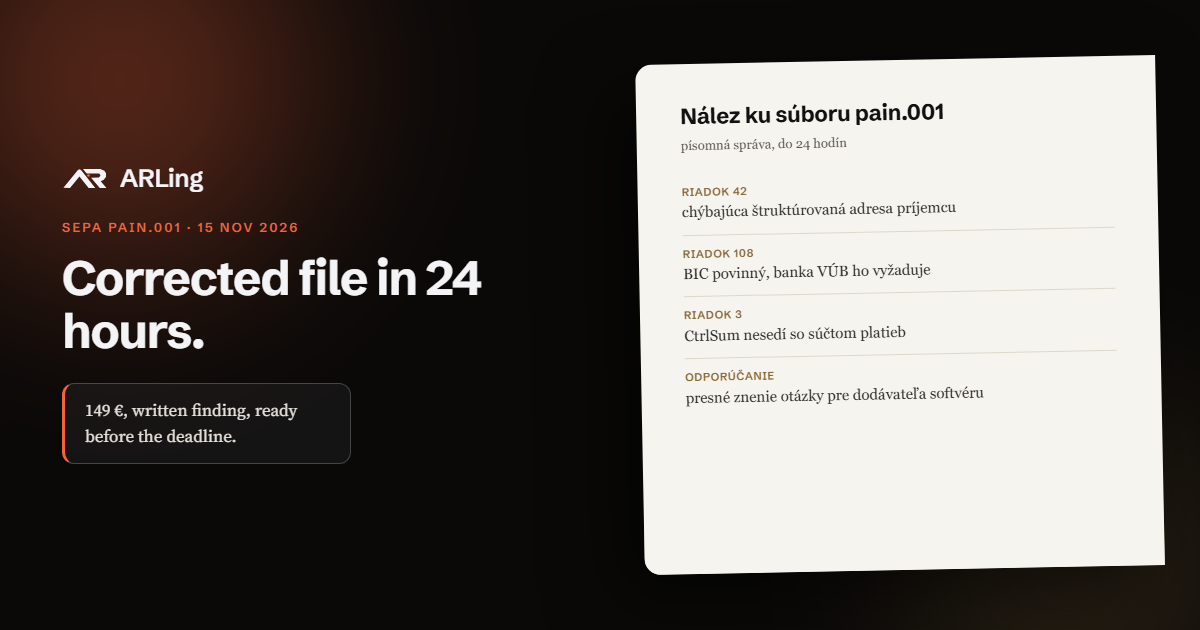
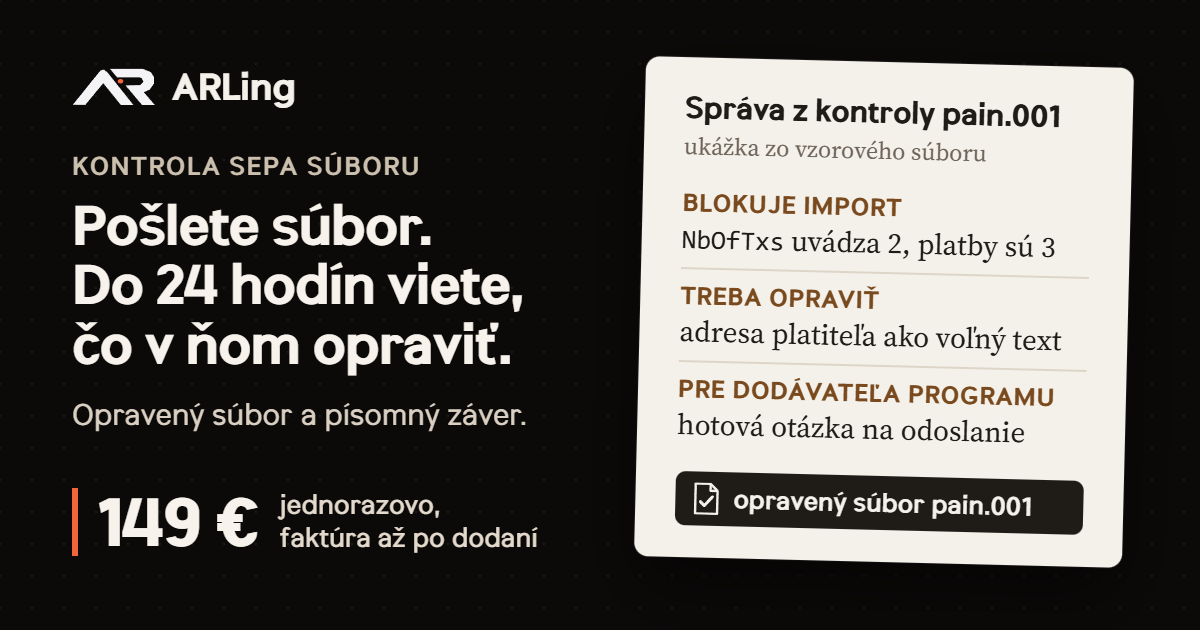
fable: kontrola-suboru nové obrázky náhľadu (sk, en, de, bez dátumov, len sľuby stránky), og:image a twitter:image s rozmermi a alt; nemecký článok o štruktúrovanej adrese: dátum 28. 8. 2026 so zdrojom a vrátený zdroj slovenských bánk (stratený pri zlúčení 6aa970c22f); brána sepa-dokoncenie pokus 2 

diff --git a/notes/strukturierte-adresse-pain-001-ab-15-november-2026/index.html b/notes/strukturierte-adresse-pain-001-ab-15-november-2026/index.html
@@ -5,7 +5,7 @@
 <script type="text/plain" data-odlozene src="/style/vzhlad.js?v=da076a5a"></script>
 <meta charset="utf-8">
 <meta name="viewport" content="width=device-width, initial-scale=1">
-<meta http-equiv="Content-Security-Policy" content="default-src 'self'; script-src 'self' https://api.arling.workers.dev 'sha256-7FSdfmrl+5QSgl6IKPQIurtZ+JQz6W0uhhvFm3YWalc=' 'sha256-liUxZVd/0HzKIV+4ILMUuUkITPMRiD4TOmylT47G87w=' 'sha256-8nkrIGeL8XwfJ5L6vJFUS28Ub2ZEuiLpzhvdEgaQnoU=' 'sha256-sFdSmUpH9lun335FcoxUD7lvRTsqrIbRkGseNtDbv0s='; connect-src 'self' https://api.arling.workers.dev; img-src 'self' data:; style-src 'self' 'unsafe-inline'; base-uri 'self'; form-action 'none'; object-src 'none'">
+<meta http-equiv="Content-Security-Policy" content="default-src 'self'; script-src 'self' https://api.arling.workers.dev 'sha256-7FSdfmrl+5QSgl6IKPQIurtZ+JQz6W0uhhvFm3YWalc=' 'sha256-OMBeKtKGPFM2mud7XkKbIFhkx83SoK6WnRF8BfzX8Q4=' 'sha256-8nkrIGeL8XwfJ5L6vJFUS28Ub2ZEuiLpzhvdEgaQnoU=' 'sha256-sFdSmUpH9lun335FcoxUD7lvRTsqrIbRkGseNtDbv0s='; connect-src 'self' https://api.arling.workers.dev; img-src 'self' data:; style-src 'self' 'unsafe-inline'; base-uri 'self'; form-action 'none'; object-src 'none'">
 <meta name="color-scheme" content="dark">
 <meta name="theme-color" content="#0a0908">
 <link rel="preconnect" href="https://api.arling.workers.dev" crossorigin>
@@ -183,7 +183,7 @@ html:not(.css) main>:nth-child(n+2),html:not(.css) body>footer{visibility:hidden
   "headline": "Strukturierte Adresse in pain.001: EPC hat den 15. November 2026 verschoben",
   "description": "Der EPC hat das Ende der unstrukturierten pain.001-Adresse vom 15. November 2026 verschoben und will bis Februar 2027 erneut darüber entscheiden. Minimum bleiben TwnNm und Ctry.",
   "datePublished": "2026-09-17",
-  "dateModified": "2026-11-19",
+  "dateModified": "2026-11-20",
   "inLanguage": "de",
   "author": {
     "@type": "Organization",
@@ -320,7 +320,7 @@ html:not(.css) main>:nth-child(n+2),html:not(.css) body>footer{visibility:hidden
 
       <h2>Was der EPC verschoben hat</h2>
       <p>Das SEPA-Regelwerk betrifft ein einzelnes Element im Zahlungssatz, nämlich PstlAdr: Sobald eine Zahlung eine Adresse enthält, soll diese künftig entweder vollständig strukturiert oder hybrid sein, denn eine Adresse, die nur als Fließtext in AdrLine geschrieben ist, soll dann nicht mehr akzeptiert werden. Ursprünglich sollte das ab dem 15. November 2026 gelten; der EPC hat diesen Termin am 9. September 2026 verschoben und am 29. Oktober 2026 entschieden, noch keinen neuen Termin festzulegen; bis Februar 2027 will er erneut darüber entscheiden. Die Regel soll für alle SEPA-Verfahren gelten, nicht nur für die gewöhnliche Überweisung: Sie betrifft die SEPA-Überweisung (SCT), die SEPA-Echtzeitüberweisung (SCT Inst) und das SEPA-Lastschriftverfahren (SDD Core und SDD B2B) gleichermaßen.</p>
-      <p>Im Spätsommer 2026 kam zusätzliche Verwirrung dazu, weil SWIFT Ende August eine Verschiebung seines eigenen Termins für weltweite grenzüberschreitende Zahlungen außerhalb von SEPA ankündigte. Anfang September 2026 bestätigte der European Payments Council zunächst noch, dass für die SEPA-Verfahren der 15. November 2026 unverändert gilt; am 9. September 2026 verschob der EPC diesen Termin dann aber ebenfalls, mit einer eigenen Entscheidung unabhängig von SWIFT. SWIFT und SEPA bleiben zwei getrennte Welten mit eigenen Terminen.</p>
+      <p>Im Spätsommer 2026 kam zusätzliche Verwirrung dazu, weil SWIFT Ende August eine Verschiebung seines eigenen Termins für weltweite grenzüberschreitende Zahlungen außerhalb von SEPA ankündigte. Am 28. August 2026 bestätigte der European Payments Council zunächst noch, dass für die SEPA-Verfahren der 15. November 2026 unverändert gilt; am 9. September 2026 verschob der EPC diesen Termin dann aber ebenfalls, mit einer eigenen Entscheidung unabhängig von SWIFT. SWIFT und SEPA bleiben zwei getrennte Welten mit eigenen Terminen.</p>
 
       <h2>Die zwei Mindestfelder einer strukturierten Adresse</h2>
       <p>Bei einer strukturierten oder hybriden Adresse verlangt das Regelwerk als Minimum zwei Angaben: den Ort im Feld TwnNm und den zweistelligen Ländercode nach ISO 3166-1 im Feld Ctry. Der Ländercode muss ein echter zweistelliger Code sein, zum Beispiel SK, CZ, DE oder AT; ein Wort wie Deutschland oder Österreich ist kein Ländercode, und die Bank lehnt einen solchen Eintrag ab.</p>
@@ -377,7 +377,9 @@ html:not(.css) main>:nth-child(n+2),html:not(.css) body>footer{visibility:hidden
           <li>F32: <a href="https://arling.sk/sepa-pain001-doctor/" rel="noopener" target="_blank" style="overflow-wrap:anywhere">https://arling.sk/sepa-pain001-doctor/</a></li>
           <li>F34: <a href="https://arling.sk/kontrola-suboru/" rel="noopener" target="_blank" style="overflow-wrap:anywhere">https://arling.sk/kontrola-suboru/</a> (geprüft am 26. September 2026)</li>
           <li>F198: European Payments Council, „EPC delays address format migration timeline“, 10. September 2026, <a href="https://www.europeanpaymentscouncil.eu/news-insights/news/epc-delays-address-format-migration-timeline" rel="noopener" target="_blank" style="overflow-wrap:anywhere">https://www.europeanpaymentscouncil.eu/news-insights/news/epc-delays-address-format-migration-timeline</a> (geprüft am 24. September 2026)</li>
-          <li>F494: <a href="https://www.europeanpaymentscouncil.eu/news-insights/news/epc-defers-setting-new-end-date-unstructured-address-format-until-february-2027" rel="noopener" target="_blank" style="overflow-wrap:anywhere">https://www.europeanpaymentscouncil.eu/news-insights/news/epc-defers-setting-new-end-date-unstructured-address-format-until-february-2027</a> (geprüft am 1. November 2026)</li>
+          <li>F494: European Payments Council, „EPC defers setting new end date for unstructured address format until February 2027“, 30. Oktober 2026, <a href="https://www.europeanpaymentscouncil.eu/news-insights/news/epc-defers-setting-new-end-date-unstructured-address-format-until-february-2027" rel="noopener" target="_blank" style="overflow-wrap:anywhere">https://www.europeanpaymentscouncil.eu/news-insights/news/epc-defers-setting-new-end-date-unstructured-address-format-until-february-2027</a> (geprüft am 1. November 2026)</li>
+          <li>European Payments Council, „November 2026 end-date of the unstructured address format for EPC payment scheme transactions“, 28. August 2026, <a href="https://www.europeanpaymentscouncil.eu/news-insights/news/november-2026-end-date-unstructured-address-format-epc-payment-scheme" rel="noopener" target="_blank" style="overflow-wrap:anywhere">https://www.europeanpaymentscouncil.eu/news-insights/news/november-2026-end-date-unstructured-address-format-epc-payment-scheme</a> (geprüft am 20. November 2026; Zitat: „Until further notice the EPC timelines remain unchanged - 15 November 2026 stands.“)</li>
+          <li>Slowakische Banken, gelesen am 19. November 2026: VÚB, „INTERNET BANKING Formáty importných súborov“, <a href="https://www.vub.sk/document/documents/VUB/IB-navody-manualy/IB-Formaty-importnych-suborov.pdf" rel="noopener" target="_blank" style="overflow-wrap:anywhere">https://www.vub.sk/document/documents/VUB/IB-navody-manualy/IB-Formaty-importnych-suborov.pdf</a>; ČSOB, „ISO20022 Štrukturované adresy“, <a href="https://www.csob.sk/documents/11005/100040/ISO20022_Strukturovane_adresy.pdf" rel="noopener" target="_blank" style="overflow-wrap:anywhere">https://www.csob.sk/documents/11005/100040/ISO20022_Strukturovane_adresy.pdf</a>; Slovenská sporiteľňa, Business24, „Popis štruktúr pre import úhrad“, <a href="https://www.slsp.sk/sk/biznis/elektronicke-bankovnictvo/business24" rel="noopener" target="_blank" style="overflow-wrap:anywhere">https://www.slsp.sk/sk/biznis/elektronicke-bankovnictvo/business24</a>; Tatra banka, „Batch files“, <a href="https://www.tatrabanka.sk/en/personal/account-payments/internet-banking/batch-files/" rel="noopener" target="_blank" style="overflow-wrap:anywhere">https://www.tatrabanka.sk/en/personal/account-payments/internet-banking/batch-files/</a>, und die slowakische Fassung dieser Seite vom 10. April 2026, <a href="https://web.archive.org/web/20260410214751/https://www.tatrabanka.sk/sk/personal/ucet-platby/internet-banking/davkove-platby/" rel="noopener" target="_blank" style="overflow-wrap:anywhere">https://web.archive.org/web/20260410214751/https://www.tatrabanka.sk/sk/personal/ucet-platby/internet-banking/davkove-platby/</a></li>
         </ul>
       </div>
     </article>

diff --git a/kontrola-suboru/de/index.html b/kontrola-suboru/de/index.html
@@ -20,9 +20,13 @@
 <meta property="og:description" content="Sie senden Ihre pain.001-Datei, innerhalb von 24 Stunden bekommen Sie einen schriftlichen Prüfbericht und die korrigierte Datei.">
 <meta property="og:url" content="https://arling.sk/kontrola-suboru/de/">
 <meta property="og:locale" content="de_DE">
-<meta property="og:image" content="https://arling.sk/og-arling-de.png">
+<meta property="og:image" content="https://arling.sk/kontrola-suboru/og-de.png">
+<meta property="og:image:width" content="1200">
+<meta property="og:image:height" content="630">
+<meta property="og:image:alt" content="ARLing SEPA-Datei prüfen lassen: Überschrift „Datei senden. In 24 Stunden wissen Sie, was zu korrigieren ist.“, Preis 149 € mit Rechnung nach Lieferung und ein Beispiel-Prüfbericht zur pain.001-Datei mit Befunden und der korrigierten Datei.">
 <meta name="twitter:card" content="summary_large_image">
-<meta name="twitter:image" content="https://arling.sk/og-arling-de.png">
+<meta name="twitter:image" content="https://arling.sk/kontrola-suboru/og-de.png">
+<meta name="twitter:image:alt" content="ARLing SEPA-Datei prüfen lassen: Überschrift „Datei senden. In 24 Stunden wissen Sie, was zu korrigieren ist.“, Preis 149 € mit Rechnung nach Lieferung und ein Beispiel-Prüfbericht zur pain.001-Datei mit Befunden und der korrigierten Datei.">
 <link rel="canonical" href="https://arling.sk/kontrola-suboru/de/">
 <link rel="alternate" hreflang="sk" href="https://arling.sk/kontrola-suboru/">
 <link rel="alternate" hreflang="de" href="https://arling.sk/kontrola-suboru/de/">

diff --git a/kontrola-suboru/index.html b/kontrola-suboru/index.html
@@ -19,9 +19,13 @@
 <meta property="og:description" content="Pošlete nám pain.001 súbor, do 24 hodín dostanete opravený súbor, písomný záver a presné znenie otázky pre dodávateľa účtovného programu.">
 <meta property="og:url" content="https://arling.sk/kontrola-suboru/">
 <meta property="og:locale" content="sk_SK">
-<meta property="og:image" content="https://arling.sk/og-arling-sk.png">
+<meta property="og:image" content="https://arling.sk/kontrola-suboru/og-sk.png">
+<meta property="og:image:width" content="1200">
+<meta property="og:image:height" content="630">
+<meta property="og:image:alt" content="ARLing Kontrola SEPA súboru: nadpis „Pošlete súbor. Do 24 hodín viete, čo v ňom opraviť.“, cena 149 € s faktúrou až po dodaní a ukážka písomnej správy k súboru pain.001 s nálezmi a s opraveným súborom.">
 <meta name="twitter:card" content="summary_large_image">
-<meta name="twitter:image" content="https://arling.sk/og-arling-sk.png">
+<meta name="twitter:image" content="https://arling.sk/kontrola-suboru/og-sk.png">
+<meta name="twitter:image:alt" content="ARLing Kontrola SEPA súboru: nadpis „Pošlete súbor. Do 24 hodín viete, čo v ňom opraviť.“, cena 149 € s faktúrou až po dodaní a ukážka písomnej správy k súboru pain.001 s nálezmi a s opraveným súborom.">
 <link rel="canonical" href="https://arling.sk/kontrola-suboru/">
 <link rel="alternate" hreflang="sk" href="https://arling.sk/kontrola-suboru/">
 <link rel="alternate" hreflang="de" href="https://arling.sk/kontrola-suboru/de/">

diff --git a/kontrola-suboru/en/index.html b/kontrola-suboru/en/index.html
@@ -20,9 +20,13 @@
 <meta property="og:description" content="You send us your pain.001 file, within 24 hours you get the corrected file, a written report and the exact question for your software vendor.">
 <meta property="og:url" content="https://arling.sk/kontrola-suboru/en/">
 <meta property="og:locale" content="en_US">
-<meta property="og:image" content="https://arling.sk/og-arling-en.png">
+<meta property="og:image" content="https://arling.sk/kontrola-suboru/og-en.png">
+<meta property="og:image:width" content="1200">
+<meta property="og:image:height" content="630">
+<meta property="og:image:alt" content="ARLing SEPA file check: the heading “You send the file. Within 24 hours you know what to fix.”, the price of 149 € invoiced after delivery, and an example pain.001 check report with findings and the corrected file.">
 <meta name="twitter:card" content="summary_large_image">
-<meta name="twitter:image" content="https://arling.sk/og-arling-en.png">
+<meta name="twitter:image" content="https://arling.sk/kontrola-suboru/og-en.png">
+<meta name="twitter:image:alt" content="ARLing SEPA file check: the heading “You send the file. Within 24 hours you know what to fix.”, the price of 149 € invoiced after delivery, and an example pain.001 check report with findings and the corrected file.">
 <link rel="canonical" href="https://arling.sk/kontrola-suboru/en/">
 <link rel="alternate" hreflang="sk" href="https://arling.sk/kontrola-suboru/">
 <link rel="alternate" hreflang="de" href="https://arling.sk/kontrola-suboru/de/">
